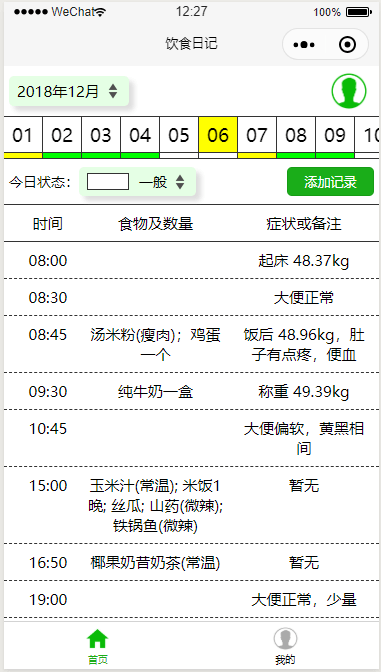
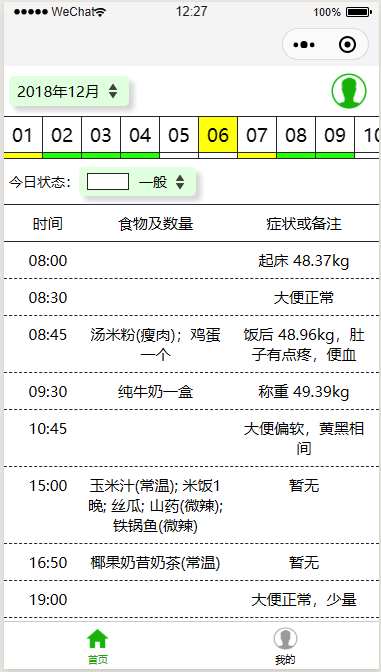
update 1.2.2 万物之中,希望至美

Changed region(s): [[0.7218, 0.2188, 0.9816, 0.3125], [0.1155, 0.2188, 0.4331, 0.25], [0.4331, 0.0312, 0.5774, 0.0938]]

diff --git a/miniprogram/pages/index/index.js b/miniprogram/pages/index/index.js
@@ -30,7 +30,8 @@ Page({
     scrollPosition: 'curday-sec-14', // '滚动位置'
 
     history: [], 
-    showTips: true
+    showTips: true,
+    auditMark: 1
     // history: historyData // 测试数据
   },
 
@@ -38,6 +39,44 @@ Page({
    * 生命周期函数--监听页面加载
    */
   onLoad: function (options) {
+    this.getConfig()
+    // {
+    //   date: "2019-08-14"
+    //   foodAndCount: "哈密瓜半个"
+    //   openid: "ocH374oiaXHKXoQxDX6Pfs77mLBs"
+    //   symptomAndRemark: "暂无"
+    //   time: "21:31"
+    //   _id: "890198e15d540d2a1427d41c3998fab9"
+    // }
+  },
+
+  getConfig() {
+    wx.request({
+      url: 'https://api.zuo11.com/ibd/fooddaily/info',
+      success: res => {
+        let data = res.data.data
+        let auditMark = data.auditMark
+        this.setData({
+          auditMark: auditMark
+        })
+
+        if (auditMark === 0) {
+          this.indexLoad()
+        }
+      },
+      fail(e) {
+        wx.showToast({
+          title: e.message,
+          icon: 'none'
+        })
+      },
+      complete() {
+
+      }
+    })
+  },
+
+  indexLoad() {
     // 获取年月选择器数据
     getYearMonthData.call(this, null)
 
@@ -48,7 +87,7 @@ Page({
     getMonDateList.apply(this, this.data.today)
 
     // 滑动到当前天
-    setTimeout(()=> {
+    setTimeout(() => {
       this.setData({
         scrollPosition: `curday-sec-${this.data.today[2]}`
       })
@@ -56,15 +95,6 @@ Page({
 
     // login 并获取当天的数据
     server_loginAndGetHistory.call(this, app)
-
-    // {
-    //   date: "2019-08-14"
-    //   foodAndCount: "哈密瓜半个"
-    //   openid: "ocH374oiaXHKXoQxDX6Pfs77mLBs"
-    //   symptomAndRemark: "暂无"
-    //   time: "21:31"
-    //   _id: "890198e15d540d2a1427d41c3998fab9"
-    // }
   },
 
   // 年月选择框值改变
@@ -124,7 +154,7 @@ Page({
     let index = e.currentTarget.id.split("-")[1]
     let curInfo = this.data.history[index]
     wx.showModal({
-      title: '您是否要修改该记录？',
+      title: '您是否要修改该信息？',
       // confirmText: "修改",
       content: 
       `时间：${curInfo.time}
@@ -224,6 +254,11 @@ Page({
    */
   onPullDownRefresh: function (e) {
     console.log('下拉事件')
+
+    if (this.data.auditMark !== 0) {
+      this.getConfig()
+    }
+
     let isNotAllowCache = true
     server_getHistoryData.call(this, this.data.curDay, app.globalData.openid, isNotAllowCache, ()=> {
       // 获取数据完成后
@@ -247,7 +282,7 @@ Page({
       // console.log(res.target)
     }
     return {
-      title: 'IBD饮食日记',
+      title: 'IBD健康管理',
       path: '/pages/index/index',
       imageUrl: '/images/share.png',
     }

diff --git a/miniprogram/pages/about/about.js b/miniprogram/pages/about/about.js
@@ -113,7 +113,7 @@ Page({
       // console.log(res.target)
     }
     return {
-      title: 'IBD饮食日记',
+      title: 'IBD健康管理',
       path: '/pages/index/index',
       imageUrl: '/images/share.png',
     }

diff --git a/miniprogram/pages/addHistory/addHistory.js b/miniprogram/pages/addHistory/addHistory.js
@@ -153,7 +153,7 @@ Page({
       // console.log(res.target)
     }
     return {
-      title: 'IBD饮食日记',
+      title: 'IBD健康管理',
       path: '/pages/index/index',
       imageUrl: '/images/share.png',
     }

diff --git a/miniprogram/pages/mine/mine.js b/miniprogram/pages/mine/mine.js
@@ -106,7 +106,7 @@ Page({
       // console.log(res.target)
     }
     return {
-      title: 'IBD饮食日记',
+      title: 'IBD健康管理',
       path: '/pages/index/index',
       imageUrl: '/images/share.png',
     }
